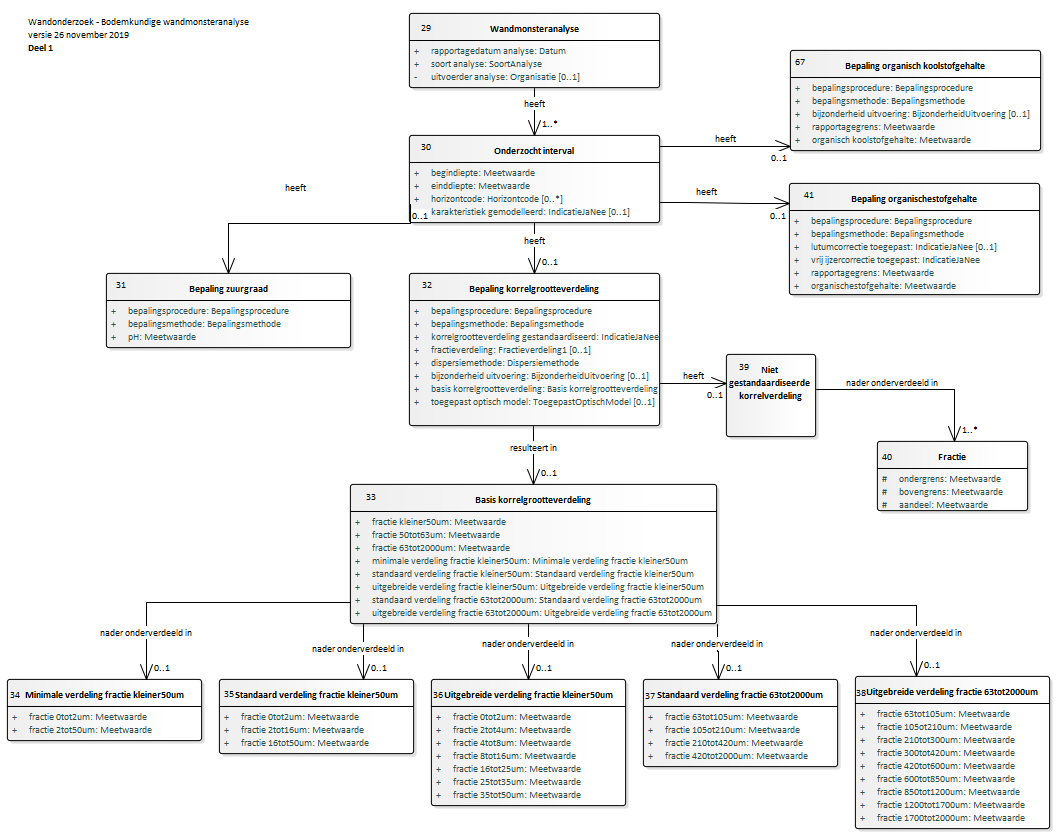
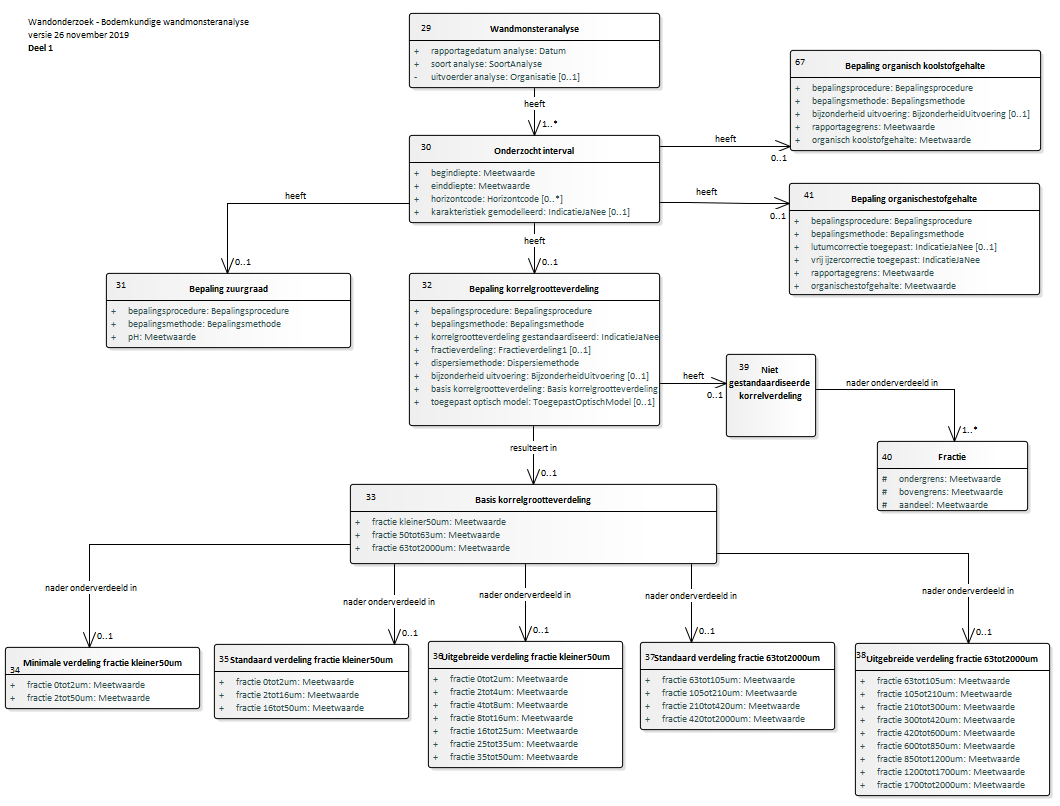
Conceptualmodel-BodemkundigwandonderzoekSFR-1.92.3versie10maart2020-3-20200316-20200317-091005

diff --git a/data/SFR-cat.msword.html b/data/SFR-cat.msword.html
@@ -13,7 +13,7 @@
    <body>
       <p>Conceptual model/Bodemkundig wandonderzoek (SFR)/20200316</p>
       <p>Imvertor: 1.59.2</p>
-      <p>Model release: Conceptualmodel-BodemkundigwandonderzoekSFR-1.92.3versie10maart2020-3-20200316-20200316-172001</p>
+      <p>Model release: Conceptualmodel-BodemkundigwandonderzoekSFR-1.92.3versie10maart2020-3-20200316-20200317-091005</p>
       <hr>
       <section>
          <h1>Artikel 1 Definitie van registratieobject, entiteiten en attributen</h1>
@@ -101,12 +101,12 @@
                <div class="imageinfo overview"><img src="Images/EAID_F311CC7E_93DB_4668_987D_525140F5B9D0.png" usemap="#imagemap-EAID_F311CC7E_93DB_4668_987D_525140F5B9D0" alt="Diagram "><map name="imagemap-EAID_F311CC7E_93DB_4668_987D_525140F5B9D0">
                      <area shape="rect" alt="Niet gestandaardiseerde korrelverdeling" coords="726,354,816,437" href="#graph_EAID_85392C61_2694_433a_89B1_7CB7439020AE">
                      <area shape="rect" alt="Fractie" coords="877,441,1028,511" href="#graph_EAID_431226DB_231C_42b8_8010_00402BDFC5AB">
-                     <area shape="rect" alt="Uitgebreide verdeling fractie 63tot2000um" coords="855,676,1050,829" href="#graph_EAID_A3EFAD78_CF43_496b_9454_F58C164C823C">
-                     <area shape="rect" alt="Standaard verdeling fractie 63tot2000um" coords="643,679,838,767" href="#graph_EAID_D9F10174_6BE1_4726_AD71_3E27E1A28945">
-                     <area shape="rect" alt="Uitgebreide verdeling fractie kleiner50um" coords="431,679,626,806" href="#graph_EAID_E1824E51_FA7A_4696_88DF_D4B613459AE6">
-                     <area shape="rect" alt="Standaard verdeling fractie kleiner50um" coords="219,679,414,754" href="#graph_EAID_473562AD_F147_491d_ABC1_DC031CC8025F">
-                     <area shape="rect" alt="Minimale verdeling fractie kleiner50um" coords="7,679,202,741" href="#graph_EAID_9662F2BD_475F_46e6_A8FC_5DBC439C35A0">
-                     <area shape="rect" alt="Basis korrelgrootteverdeling" coords="350,484,717,624" href="#graph_EAID_871F5094_E2B5_47a6_8F29_74B442A18DDA">
+                     <area shape="rect" alt="Uitgebreide verdeling fractie 63tot2000um" coords="855,643,1050,796" href="#graph_EAID_A3EFAD78_CF43_496b_9454_F58C164C823C">
+                     <area shape="rect" alt="Standaard verdeling fractie 63tot2000um" coords="640,642,835,730" href="#graph_EAID_D9F10174_6BE1_4726_AD71_3E27E1A28945">
+                     <area shape="rect" alt="Uitgebreide verdeling fractie kleiner50um" coords="428,641,623,768" href="#graph_EAID_E1824E51_FA7A_4696_88DF_D4B613459AE6">
+                     <area shape="rect" alt="Standaard verdeling fractie kleiner50um" coords="214,644,409,719" href="#graph_EAID_473562AD_F147_491d_ABC1_DC031CC8025F">
+                     <area shape="rect" alt="Minimale verdeling fractie kleiner50um" coords="5,647,200,709" href="#graph_EAID_9662F2BD_475F_46e6_A8FC_5DBC439C35A0">
+                     <area shape="rect" alt="Basis korrelgrootteverdeling" coords="350,484,717,564" href="#graph_EAID_871F5094_E2B5_47a6_8F29_74B442A18DDA">
                      <area shape="rect" alt="Bepaling korrelgrootteverdeling" coords="409,273,660,426" href="#graph_EAID_8A3656CD_0F50_48f6_9CF0_0890F48CA39A">
                      <area shape="rect" alt="Bepaling organischestofgehalte" coords="789,183,1040,295" href="#graph_EAID_3C291EC5_84C5_4d25_8E28_F9D97115F1F7">
                      <area shape="rect" alt="Bepaling organisch koolstofgehalte" coords="790,50,1041,151" href="#graph_EAID_34645118_BDCB_4863_8A47_BF5AE086C2D3">
@@ -21437,11 +21437,11 @@
                </section><a class="anchor" id="graph_EAID_ED8DE5D2_7585_496c_8B3C_F887234EE5BA"></a><a class="anchor" id="global_class_Model_Modelleringvanhydrofysischekarakteristieken"></a><section id="global_class_Model_Modelleringvanhydrofysischekarakteristieken">
                   <h3>   Modellering van hydrofysische karakteristieken</h3>
                   <div class="imageinfo "><img src="Images/EAID_F317D498_7CB1_4e0e_B1D4_915D46785685.png" usemap="#imagemap-EAID_F317D498_7CB1_4e0e_B1D4_915D46785685" alt="Diagram "><map name="imagemap-EAID_F317D498_7CB1_4e0e_B1D4_915D46785685">
-                        <area shape="rect" alt="Vorm doorlatendheidscurve" coords="242,11,400,39" href="#graph_EAID_C235166C_1A71_4de1_A5D2_53E6850A7B38">
-                        <area shape="rect" alt="Waterdoorlatendheidskarakteristiek" coords="311,161,562,189" href="#graph_EAID_0AF057E2_EDD7_4700_B3C4_8BFDC1229F63">
-                        <area shape="rect" alt="Waterretentiekarakteristiek" coords="49,160,245,209" href="#graph_EAID_E4D2D503_2A00_47e1_9BC1_540129FF6621">
-                        <area shape="rect" alt="Vorm retentiecurve" coords="-38,11,142,39" href="#graph_EAID_C9AA7519_2AF8_4dd9_89FB_57D75C258967">
-                        <area shape="rect" alt="Modellering van hydrofysische karakteristieken" coords="10,10,328,85" href="#graph_EAID_ED8DE5D2_7585_496c_8B3C_F887234EE5BA"></map><p><b></b></p>
+                        <area shape="rect" alt="Vorm doorlatendheidscurve" coords="320,293,478,321" href="#graph_EAID_C235166C_1A71_4de1_A5D2_53E6850A7B38">
+                        <area shape="rect" alt="Waterdoorlatendheidskarakteristiek" coords="273,189,524,238" href="#graph_EAID_0AF057E2_EDD7_4700_B3C4_8BFDC1229F63">
+                        <area shape="rect" alt="Waterretentiekarakteristiek" coords="10,189,206,238" href="#graph_EAID_E4D2D503_2A00_47e1_9BC1_540129FF6621">
+                        <area shape="rect" alt="Vorm retentiecurve" coords="18,293,198,321" href="#graph_EAID_C9AA7519_2AF8_4dd9_89FB_57D75C258967">
+                        <area shape="rect" alt="Modellering van hydrofysische karakteristieken" coords="58,10,376,111" href="#graph_EAID_ED8DE5D2_7585_496c_8B3C_F887234EE5BA"></map><p><b></b></p>
                   </div>
                   <table style="width: 100%;">
                      <colgroup style="width: 30%;"></colgroup>
